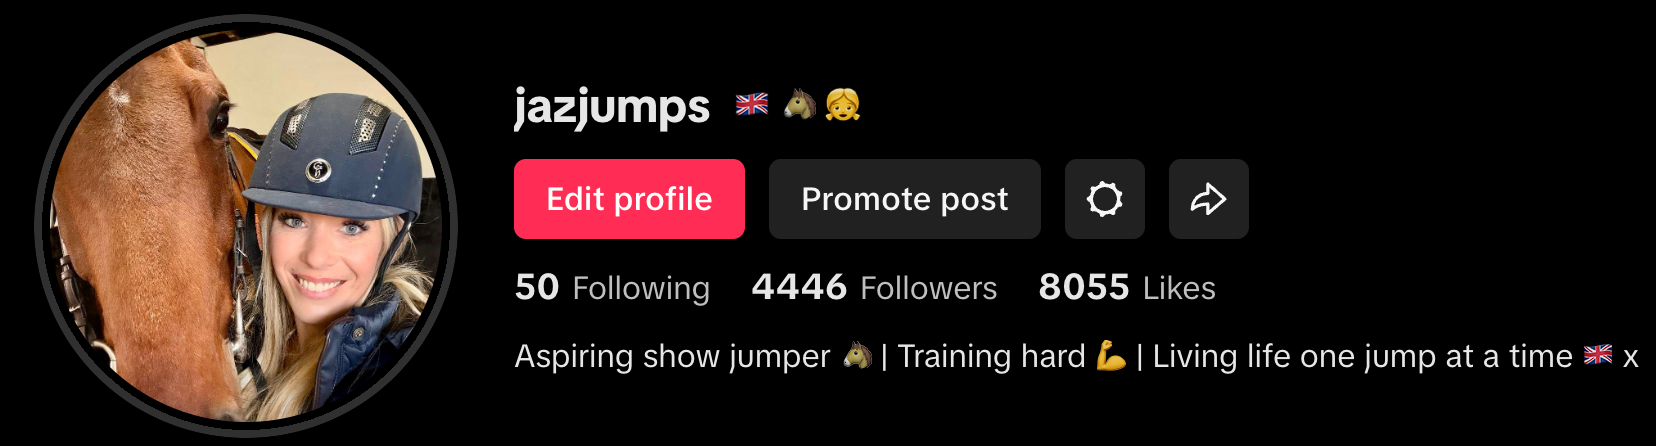
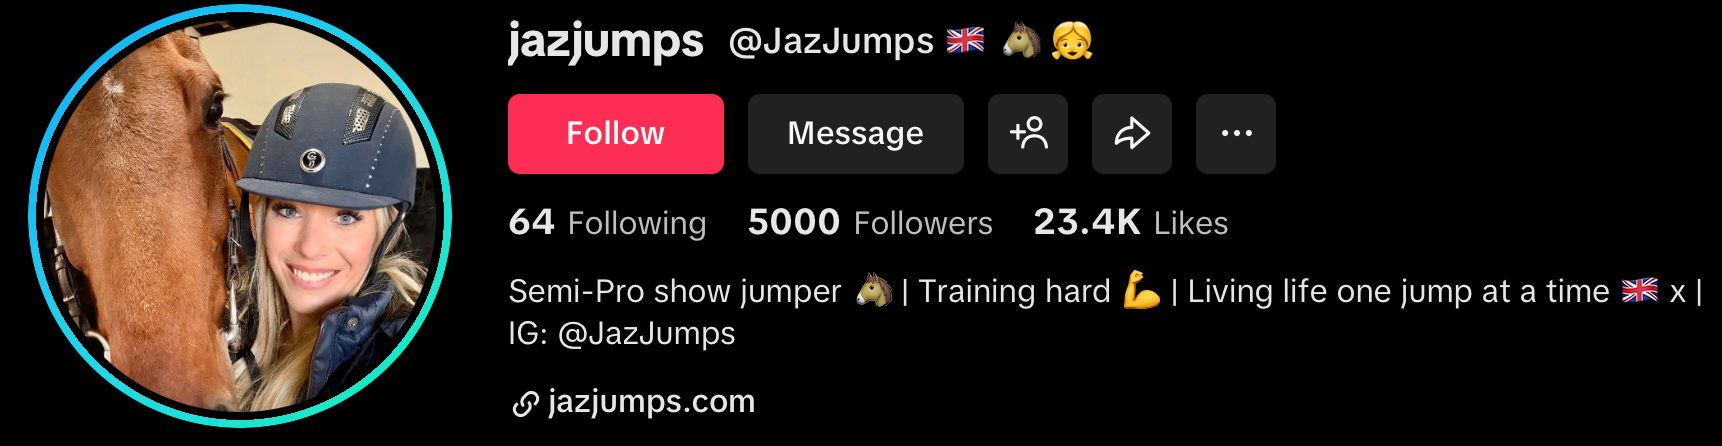
Update TikTok image: larger hero placement on homepage
🤖 Generated with [Claude Code](https://claude.com/claude-code)

Changed region(s): [[0.0, 0.0, 1.0, 0.991], [0.2772, 0.0291, 0.6467, 0.1457], [0.2772, 0.8744, 0.4312, 0.9327]]

diff --git a/index.html b/index.html
@@ -160,10 +160,10 @@
         <div class="container">
             <h2>Follow the Journey</h2>
             <div class="decorative-line center"></div>
+            <a href="https://www.tiktok.com/@jazjumps" target="_blank" rel="noopener"><img
+                    src="images/tiktok.png" alt="TikTok Stats" class="tiktok-hero-image"></a>
             <div class="tiktok-preview-content">
                 <div class="tiktok-preview-text">
-                    <a href="https://www.tiktok.com/@jazjumps" target="_blank" rel="noopener"><img
-                            src="images/tiktok.png" alt="TikTok" class="tiktok-logo-small"></a>
                     <p>After years of avoiding social media, I finally took the plunge and joined TikTok in November
                         2025. In just one week, I've been overwhelmed by the incredible response from the equestrian
                         community.</p>

diff --git a/css/styles.css b/css/styles.css
@@ -1259,13 +1259,22 @@ img {
 }
 
 .tiktok-logo-small {
-    width: 300px;
+    width: 450px;
     max-width: 100%;
     height: auto;
     margin-bottom: 24px;
     display: block;
     margin-left: auto;
     margin-right: auto;
+}
+
+.tiktok-hero-image {
+    width: 100%;
+    max-width: 700px;
+    height: auto;
+    display: block;
+    margin: 0 auto 40px;
+    border-radius: 12px;
 }
 
 .tiktok-preview-text p {
